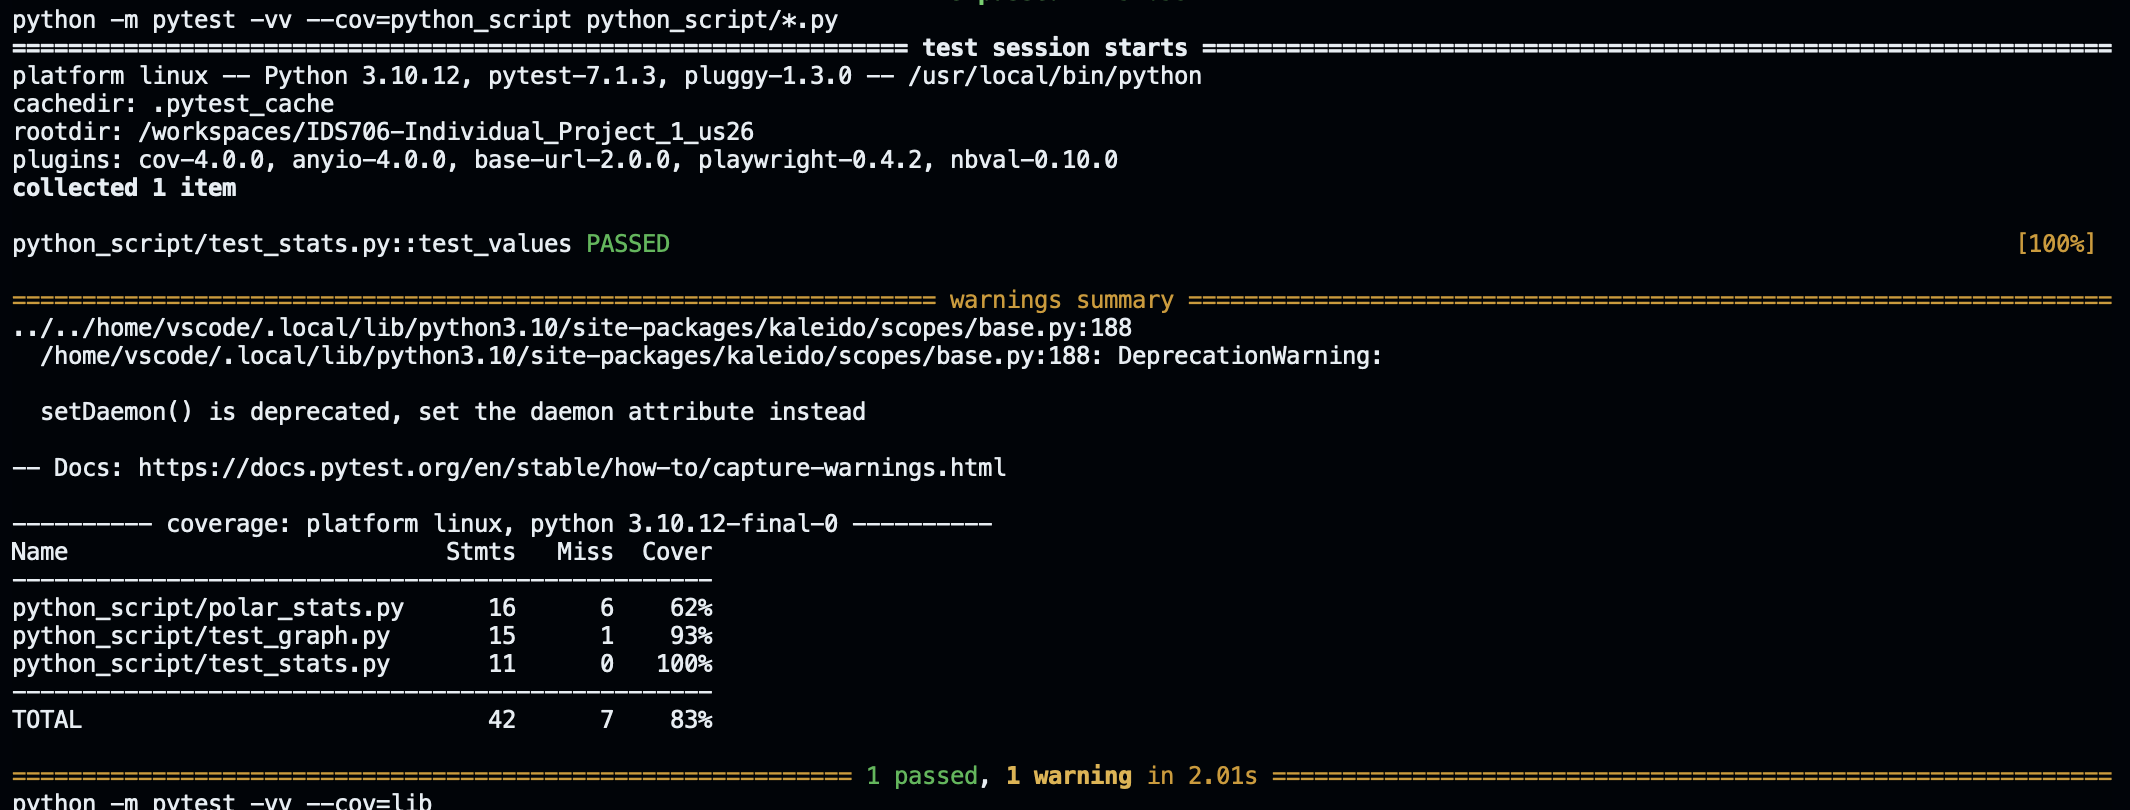
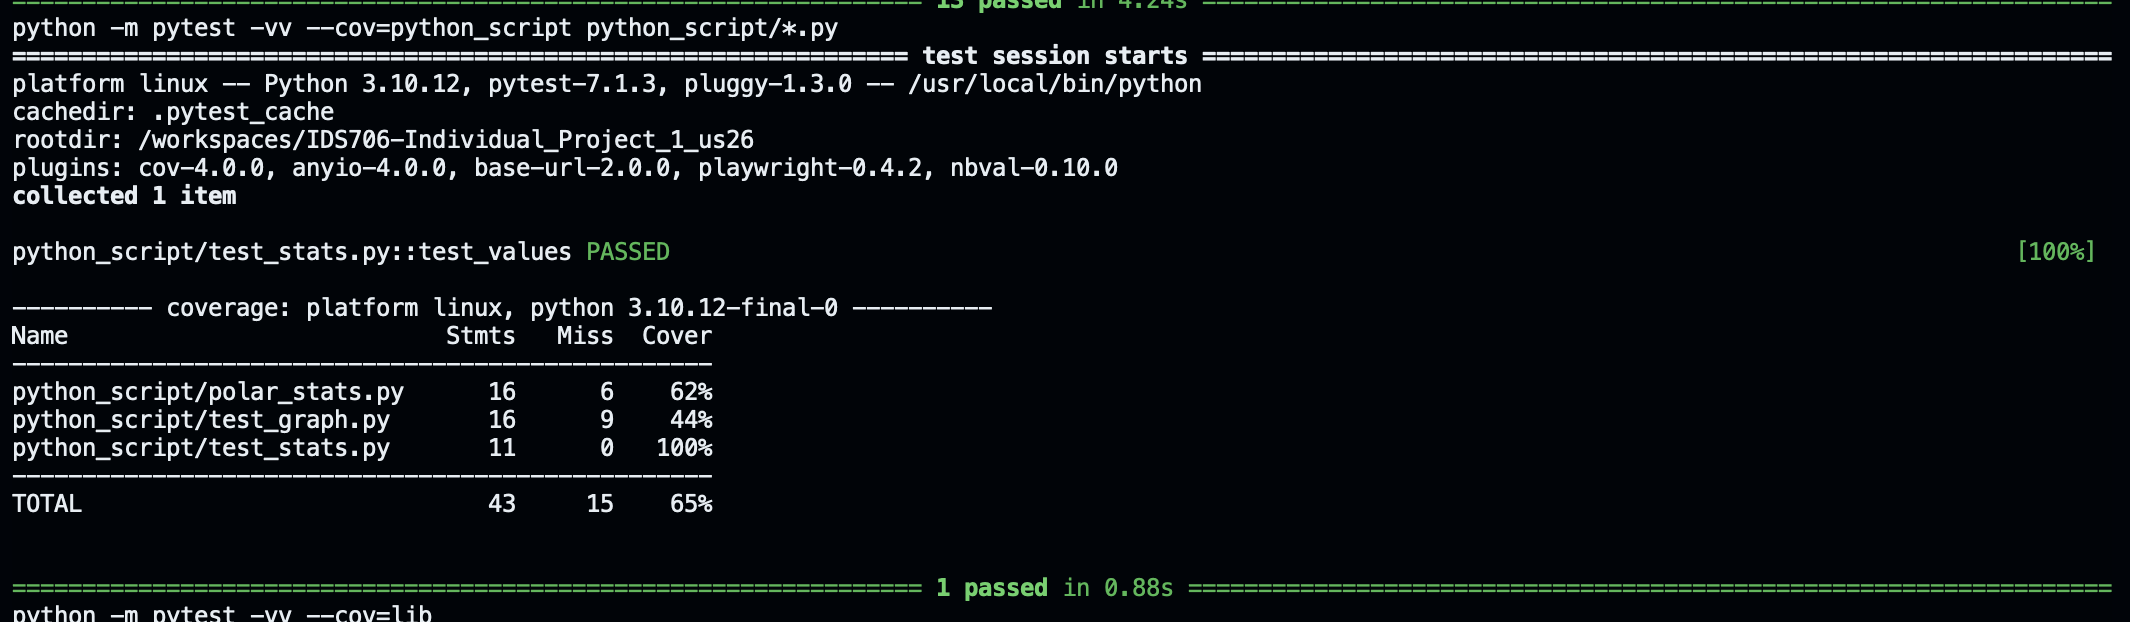
changes

Changed region(s): [[0.0, 0.3666, 0.9915, 1.0], [0.0, 0.0, 0.9915, 0.336], [0.9296, 0.2749, 0.9915, 0.3055]]

diff --git a/python_script/test_graph.py b/python_script/test_graph.py
@@ -34,4 +34,5 @@ def visualization(data):
     fig.write_image("../output_graph/visualization.png")
 
 
-visualization(dataset)
+if __name__ == '__main__':
+    visualization(dataset)
